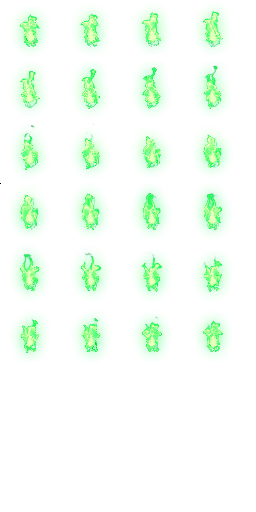
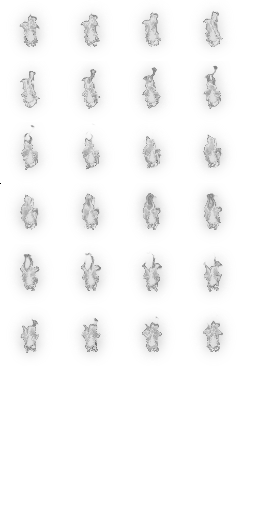
화염구 색 변경 및 타이틀 이미지 위치가 맞지 않는 문제 수정

diff --git a/core/src/main/java/com/shatteredpixel/shatteredpixeldungeon/scenes/TitleScene.java b/core/src/main/java/com/shatteredpixel/shatteredpixeldungeon/scenes/TitleScene.java
@@ -87,8 +87,8 @@ public class TitleScene extends PixelScene {
 		align(title);
 
 		if (landscape()){
-			placeTorch(title.x + 30, title.y + 35);
-			placeTorch(title.x + title.width - 30, title.y + 35);
+			placeTorch(title.x + 16, title.y + 70);
+			placeTorch(title.x + title.width - 16, title.y + 70);
 		} else {
 			placeTorch(title.x + 16, title.y + 70);
 			placeTorch(title.x + title.width - 16, title.y + 70);

diff --git a/core/src/main/java/com/shatteredpixel/shatteredpixeldungeon/effects/BannerSprites.java b/core/src/main/java/com/shatteredpixel/shatteredpixeldungeon/effects/BannerSprites.java
@@ -45,7 +45,7 @@ public class BannerSprites {
 				break;
 			case TITLE_GLOW_PORT:
 			case TITLE_GLOW_LAND:
-				icon.frame( icon.texture.uvRect( 122, 0, 122, 92 ) );
+				icon.frame( icon.texture.uvRect( 122, 0, 244, 92 ) );
 				break;
 			case BOSS_SLAIN:
 				icon.frame( icon.texture.uvRect( 0, 90, 128, 125 ) );
